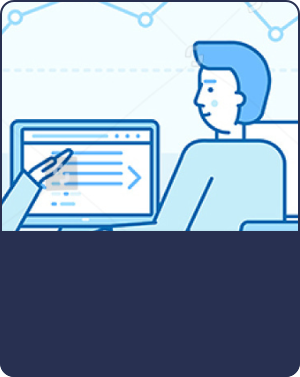
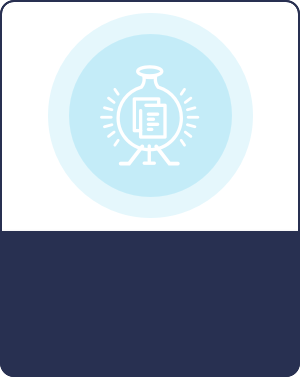
feat(web): update home blocks

diff --git a/web/components/TipicBlock.js b/web/components/TipicBlock.js
@@ -1,0 +1,75 @@
+import React from "react";
+import styled from "styled-components";
+import SubTitle from "./SubTitle";
+
+const Wrapper = styled.div`
+  height: 676px;
+  padding: 20px 0;
+  box-sizing: border-box;
+`;
+
+const Content = styled.div`
+  width: 300px;
+  height: 377px;
+  display: block;
+  background: url("/static/topic_box.png");
+  position: absolute;
+  top: 0;
+  left: 0;
+`;
+
+const Tipics = styled.div`
+  display: flex;
+  align-items: center;
+  justify-content: space-between;
+  padding: 0 80px;
+`;
+
+const Tipic = styled.div`
+  width: 300px;
+  height: 377px;
+  display: block;
+  position: relative;
+
+  &:before {
+    content: "";
+    background: url("/static/topic_box_bg.png");
+    width: 321px;
+    height: 357px;
+    display: block;
+    position: absolute;
+    right: -36px;
+    bottom: -32px;
+  }
+`;
+
+const Timestamp = styled.div`
+  font-size: 14px;
+  color: #283051;
+  text-align: right;
+  margin-top: 20px;
+  padding: 0 80px;
+`;
+
+export default function TipicBlock() {
+  return (
+    <Wrapper>
+      <SubTitle>年度熱門申請主題</SubTitle>
+      <Tipics>
+        <Tipic>
+          <Content />
+        </Tipic>
+        <Tipic>
+          <Content />
+        </Tipic>
+        <Tipic>
+          <Content />
+        </Tipic>
+        <Tipic>
+          <Content />
+        </Tipic>
+      </Tipics>
+      <Timestamp>更新日期: 2020-01-01</Timestamp>
+    </Wrapper>
+  );
+}

diff --git a/web/pages/index.js b/web/pages/index.js
@@ -4,8 +4,10 @@ import Document from "../components/Document";
 import Container from "../components/Container";
 import Topbar from "../components/Topbar";
 import Header from "../components/Header";
+import TipicBlock from "../components/TipicBlock";
+import ReportBlock from "../components/ReportBlock";
+import Enter from "../components/Enter";
 import Footer from "../components/Footer";
-import SubTitle from "../components/SubTitle";
 
 const Main = styled.div`
   flex: 1;
@@ -19,9 +21,9 @@ export default function Index() {
         <Topbar />
         <Main>
           <Header />
-          <SubTitle>年度熱門申請主題</SubTitle>
-          <SubTitle>開放資料累積申請數</SubTitle>
-          <SubTitle>小幫手申請成果</SubTitle>
+          <TipicBlock />
+          <ReportBlock />
+          <Enter />
         </Main>
         <Footer />
       </Container>

diff --git a/web/components/Enter.js b/web/components/Enter.js
@@ -1,0 +1,41 @@
+import React from "react";
+import styled from "styled-components";
+
+const Wrapper = styled.div`
+  height: 624px;
+  display: flex;
+  align-items: center;
+  justify-content: center;
+`;
+
+const Content = styled.div`
+  font-size: 36px;
+  color: #283051;
+  text-align: center;
+`;
+
+const Button = styled.div`
+  background: #283051;
+  border-radius: 5px;
+  font-size: 21px;
+  color: #ffffff;
+  width: 291px;
+  height: 72px;
+  display: flex;
+  align-items: center;
+  justify-content: center;
+`;
+
+export default function Footer() {
+  return (
+    <Wrapper>
+      <img src="/static/welcome.png" alt="welcome" />
+      <Content>
+        <span>推動政府開放資料</span>
+        <br />
+        <span>需要你的參與！</span>
+        <Button>加入一日資料申請小幫手</Button>
+      </Content>
+    </Wrapper>
+  );
+}

diff --git a/web/components/ReportBlock.js b/web/components/ReportBlock.js
@@ -1,0 +1,36 @@
+import React from "react";
+import styled from "styled-components";
+import SubTitle from "./SubTitle";
+
+const Wrapper = styled.div`
+  height: 577px;
+  background: #f6f6f6;
+  padding: 20px 0;
+  box-sizing: border-box;
+`;
+
+const ReportBar = styled.div`
+  background: url("/static/report_bar.png");
+  background-size: cover;
+  width: 1285px;
+  height: 348px;
+  margin: 0 auto;
+`;
+
+const Timestamp = styled.div`
+  font-size: 14px;
+  color: #283051;
+  text-align: right;
+  margin-top: 20px;
+  padding: 0 80px;
+`;
+
+export default function ReportBlock() {
+  return (
+    <Wrapper>
+      <SubTitle>開放資料累積申請數</SubTitle>
+      <ReportBar />
+      <Timestamp>更新日期: 2020-01-01</Timestamp>
+    </Wrapper>
+  );
+}
